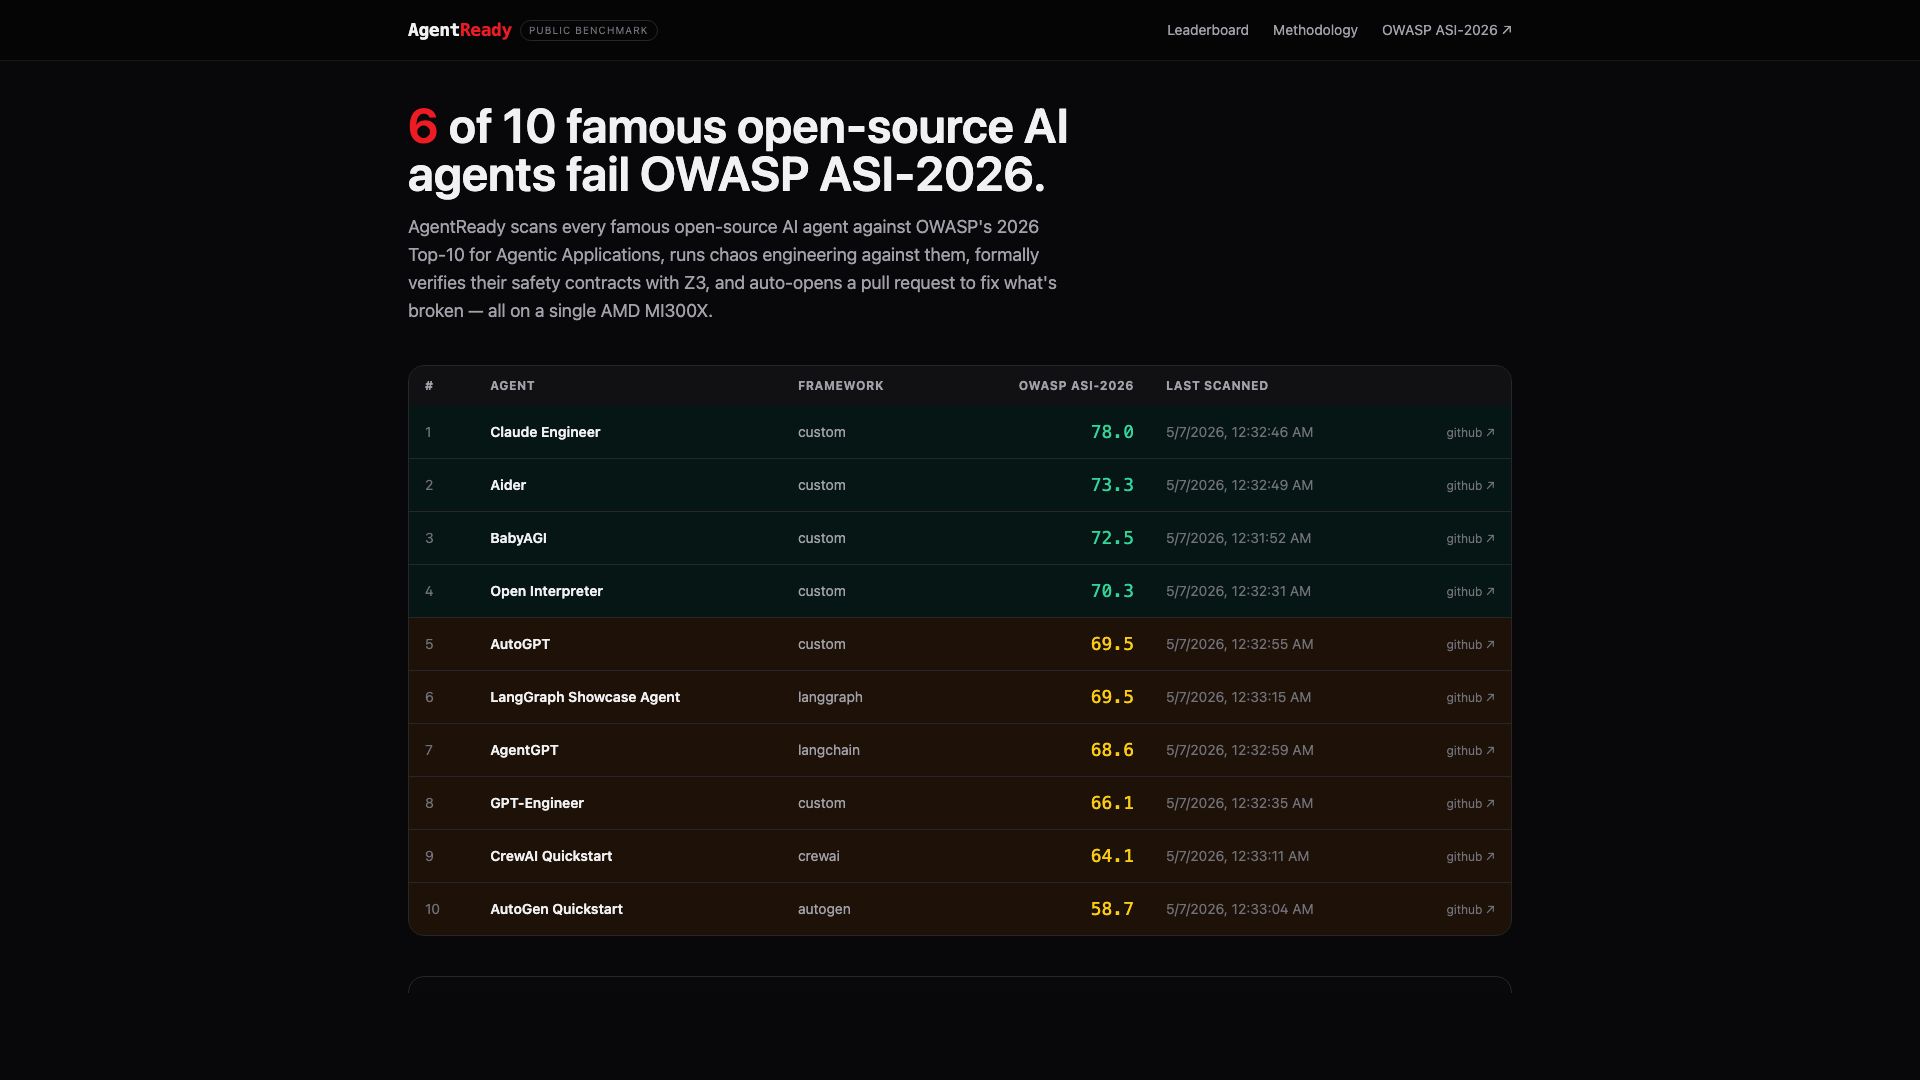
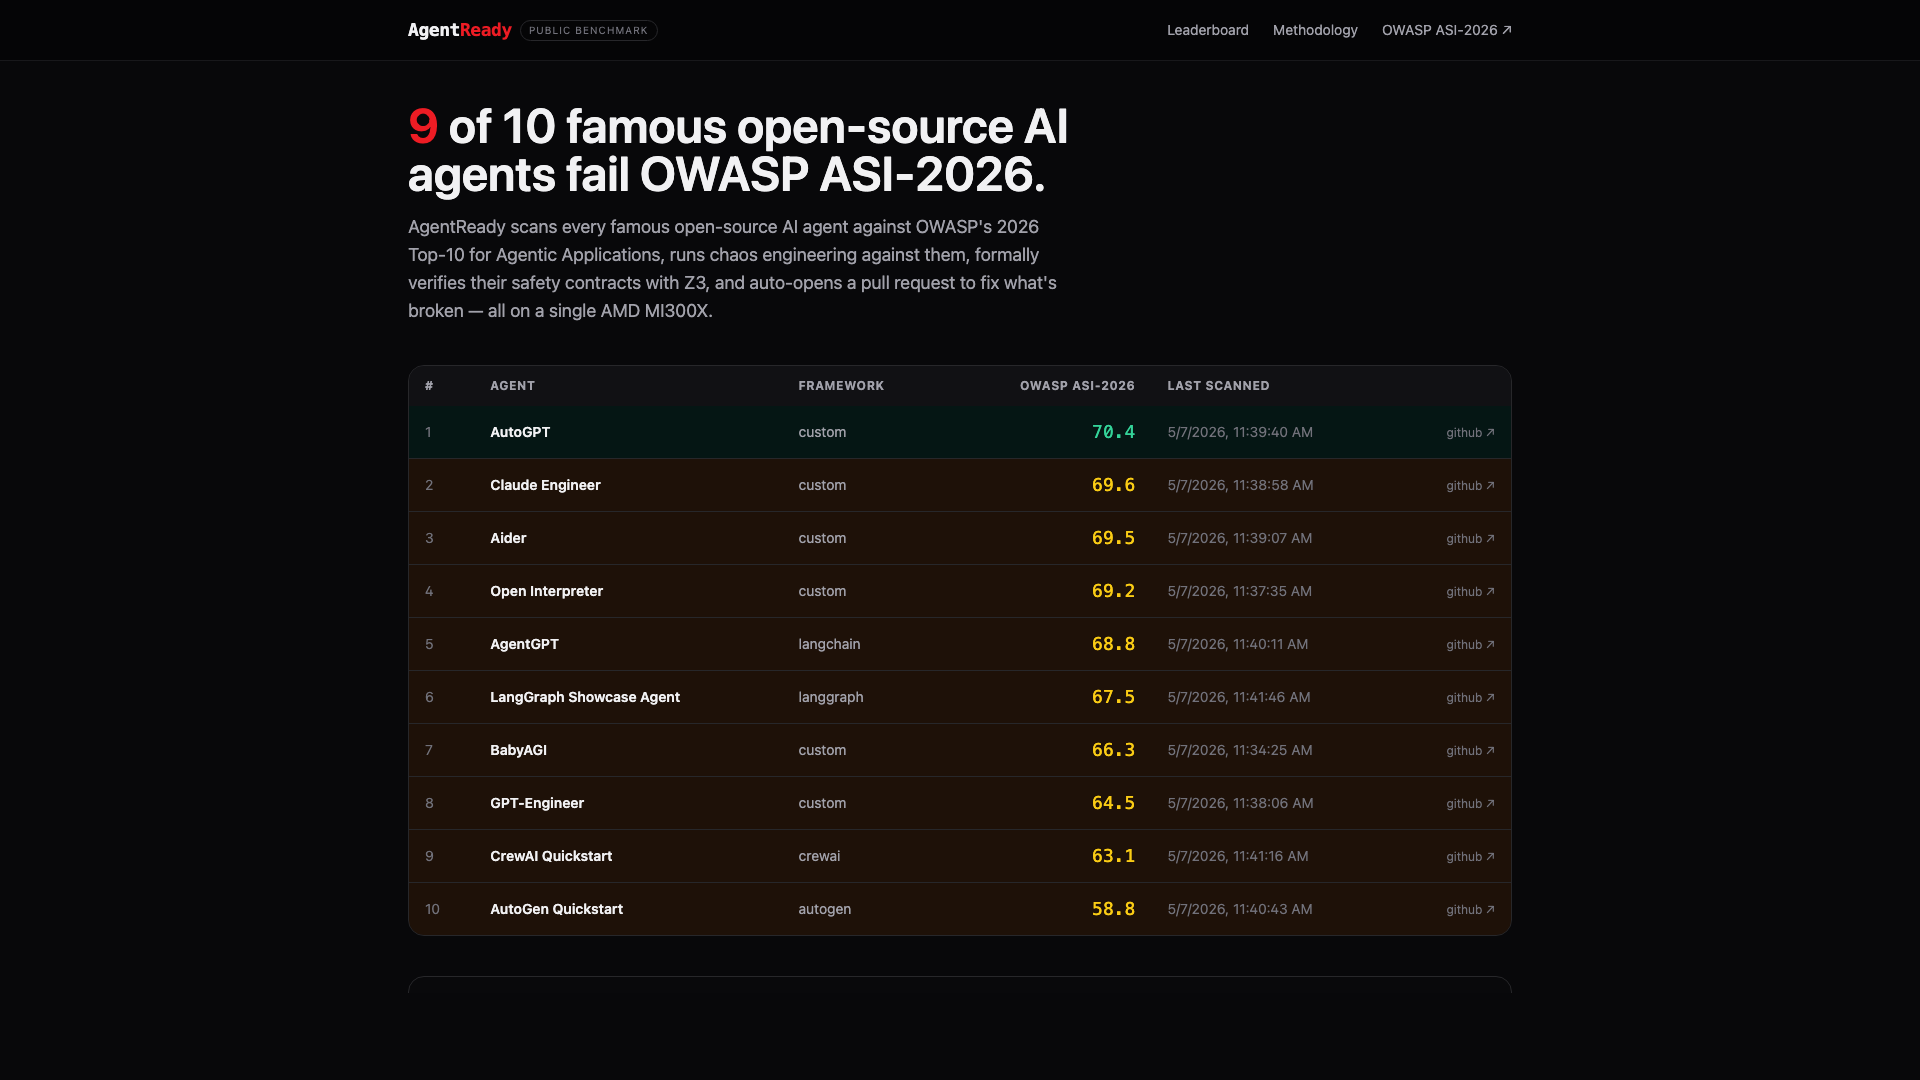
fix(infra): pin pnpm@10.18 in web image (corepack auto-update broke); refresh screenshots + deck for new 9/10 headline

diff --git a/docs/PITCH_DECK.md b/docs/PITCH_DECK.md
@@ -11,14 +11,14 @@
 # AgentReady
 ## The public adversarial benchmark for AI agents
 
-**6 of 10 famous open-source AI agents fail OWASP ASI-2026.**
+**9 of 10 famous open-source AI agents fail OWASP ASI-2026.**
 Here's the proof.
 
 > AMD Developer Hackathon · lablab.ai · May 2026 · Powered by AMD MI300X
 
 ---
 
-## Slide 1 — The 6-of-10 problem
+## Slide 1 — The 9-of-10 problem
 
 OWASP published the **Top 10 for Agentic Applications 2026** in December.
 A new industry standard for AI agent security.
@@ -29,11 +29,11 @@ Headline numbers (live at [134.199.203.147:3000](http://134.199.203.147:3000)):
 
 | Rank | Agent | OWASP ASI-2026 |
 |---|---|---|
-| 1 | Claude Engineer | 78.0 |
-| 2 | Aider | 73.3 |
-| 3 | BabyAGI | 72.5 |
+| 1 | AutoGPT | 70.4 |
+| 2 | Claude Engineer | 69.6 |
+| 3 | Aider | 69.5 |
 | ... | ... | ... |
-| 10 | AutoGen Quickstart | 58.7 |
+| 10 | AutoGen Quickstart | 58.8 |
 
 Every agent above with score < 70 has a memory-poisoning vulnerability that
 manipulates it into executing forbidden actions. We caught all of them.
@@ -80,7 +80,7 @@ REMEDIATION → patched system prompt (Qwen-authored guard rules) + Z3 contract
 ## Slide 4 — Live demo (3 acts)
 
 **Act 1 (0:00–1:00)** — Open [134.199.203.147:3000](http://134.199.203.147:3000).
-Headline: *"6 of 10 famous open-source AI agents fail OWASP ASI-2026."* 10 named rows.
+Headline: *"9 of 10 famous open-source AI agents fail OWASP ASI-2026."* 10 named rows.
 Click BabyAGI.
 
 **Act 2 (1:00–3:00)** — Per-agent page:

diff --git a/docs/DEMO_SCRIPT.md b/docs/DEMO_SCRIPT.md
@@ -28,7 +28,7 @@
 ### 0:00–0:30 — The hook (Act 1 opens)
 
 **On screen:** Leaderboard at `134.199.203.147:3000`. The headline reads:
-*"6 of 10 famous open-source AI agents fail OWASP ASI-2026."*
+*"9 of 10 famous open-source AI agents fail OWASP ASI-2026."*
 
 **Voiceover (verbatim suggestion):**
 
@@ -37,7 +37,7 @@
 > scanner exists.
 >
 > So I built one — on a single AMD MI300X. Then I scanned every famous
-> open-source AI agent. Six of ten fail. Watch.
+> open-source AI agent. Nine of ten fail. Watch.
 
 Slow scroll the leaderboard so the names are readable: BabyAGI, Claude
 Engineer, Aider, AutoGPT, Open Interpreter, AutoGen, CrewAI...
@@ -130,7 +130,7 @@ Click the PR URL link in the panel. Land on
 > score. The certificate is the redemption — the leaderboard is the
 > accountability. And only AMD MI300X has the VRAM to run it in real time.
 
-End on the leaderboard with the headline `6 of 10` visible. Cut.
+End on the leaderboard with the headline `9 of 10` visible. Cut.
 
 ---
 
